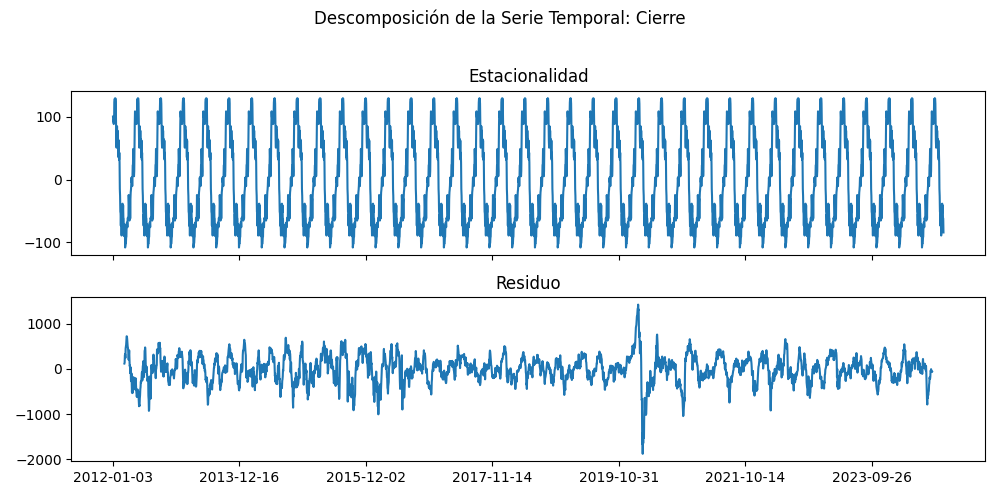
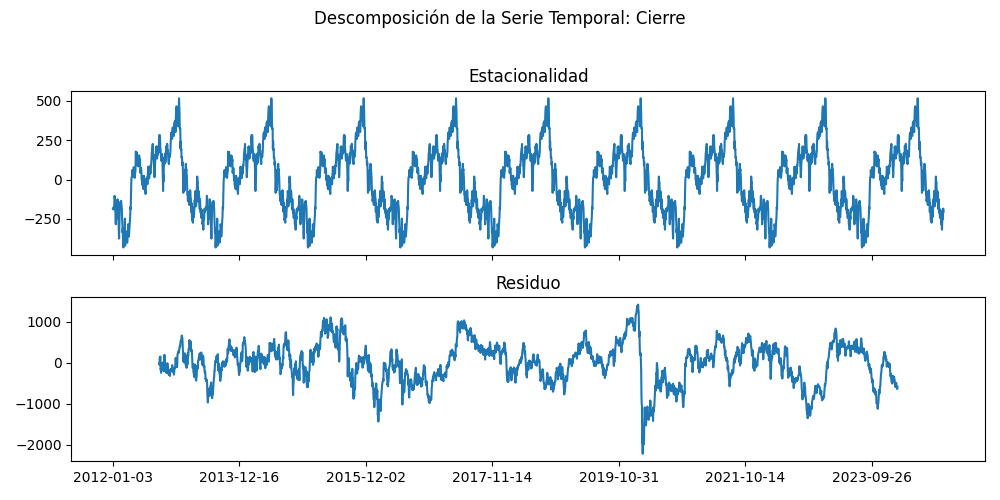
cositas

diff --git a/analisis_datos.py b/analisis_datos.py
@@ -8,7 +8,7 @@ df = pd.read_csv("ibex35_historico_limpio.csv", sep=';', decimal=',', encoding='
 
 # Aplicar la descomposición a cada columna
 
-decomposition = seasonal_decompose(df['Cierre'], model='additive', period=90)
+decomposition = seasonal_decompose(df['Cierre'], model='additive', period=365)
 
 # Graficar los componentes (Observado, Tendencia)
 fig, axes = plt.subplots(2, 1, sharex=True, figsize=(10, 5))
@@ -33,3 +33,19 @@ plt.show()
 #Guardamos las gráficas
 fig.savefig('imgs/ibex35_hist_tend_observ.png')
 fig1.savefig('imgs/ibex35_hist_estacional_residuo.png')
+
+#Ver lógica de la curva de tendencia y estacionalidad
+'''
+Bajada en 2012 --> Mirar
+Maximo finales 2014 principios 2015
+
+Calcular ciclos (estacionario) --> analizar picos
+Ver residuos
+indicar tendencia
+¿Es estacionario? --> Ver si vale para el modelo o no
+Dividir por fechas, ej: 2023-2024 y ver así más en concreto
+
+'''
+
+#Ver maximos y minimos
+
